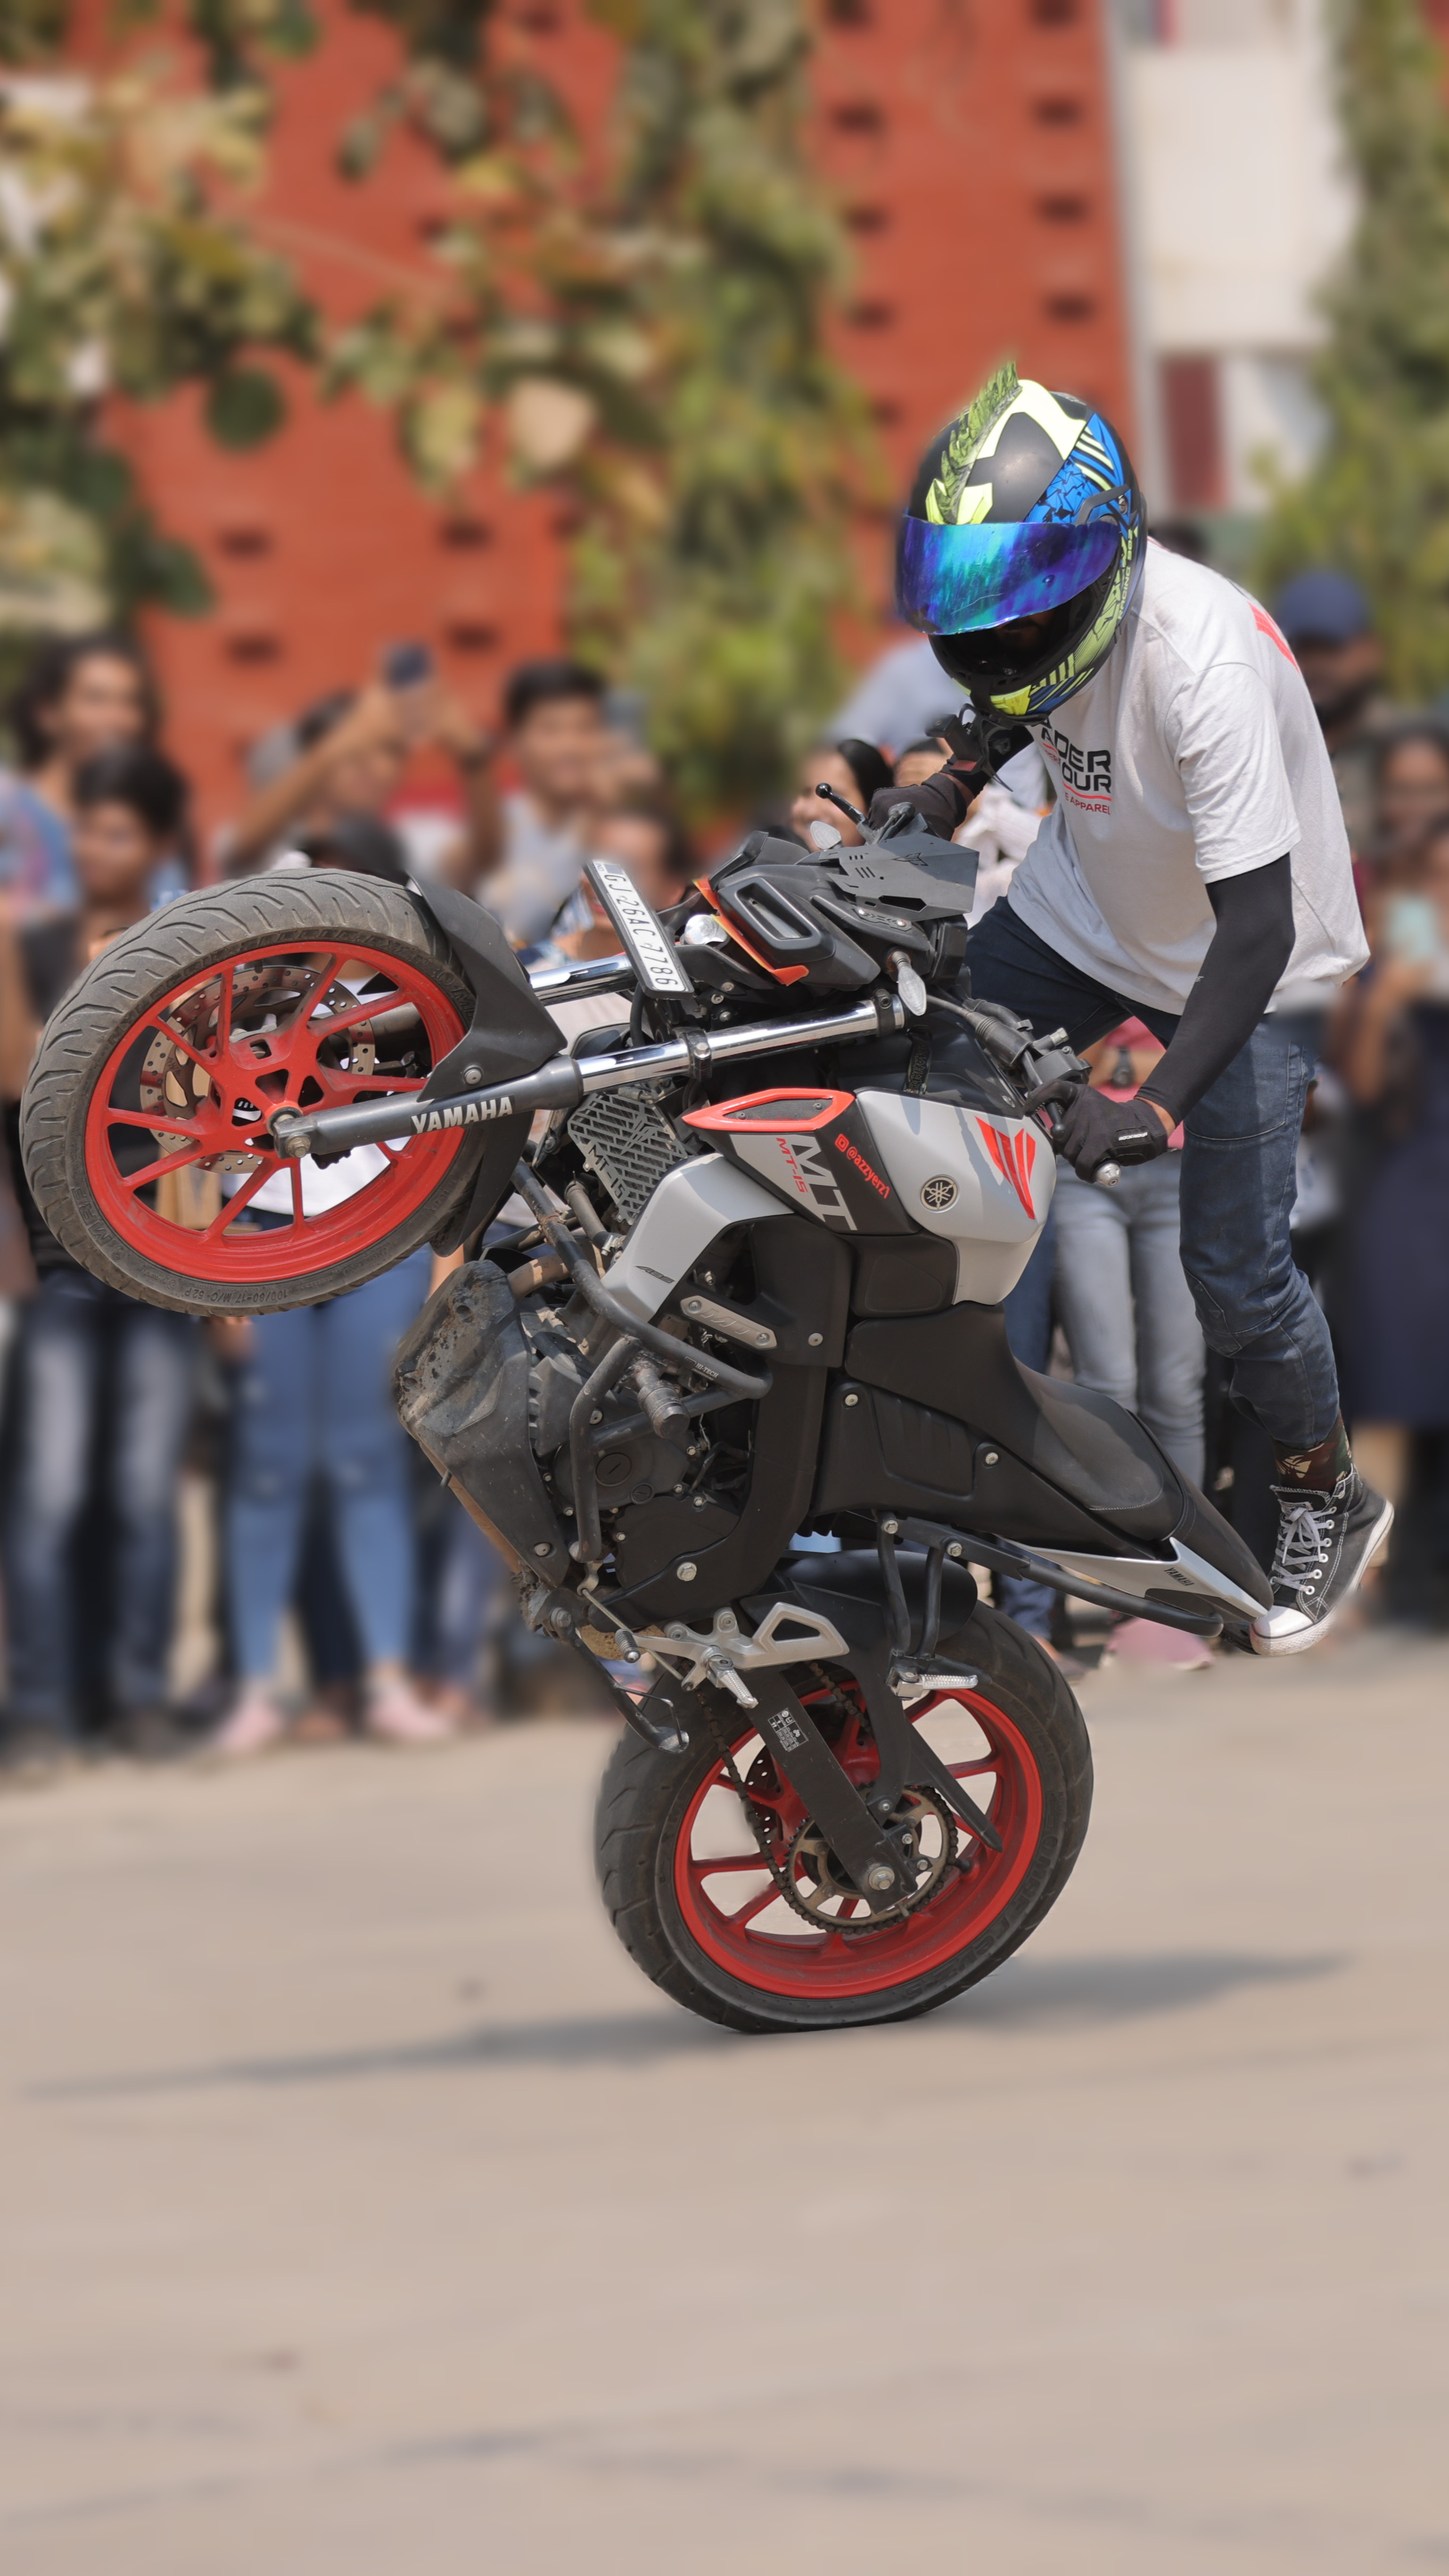
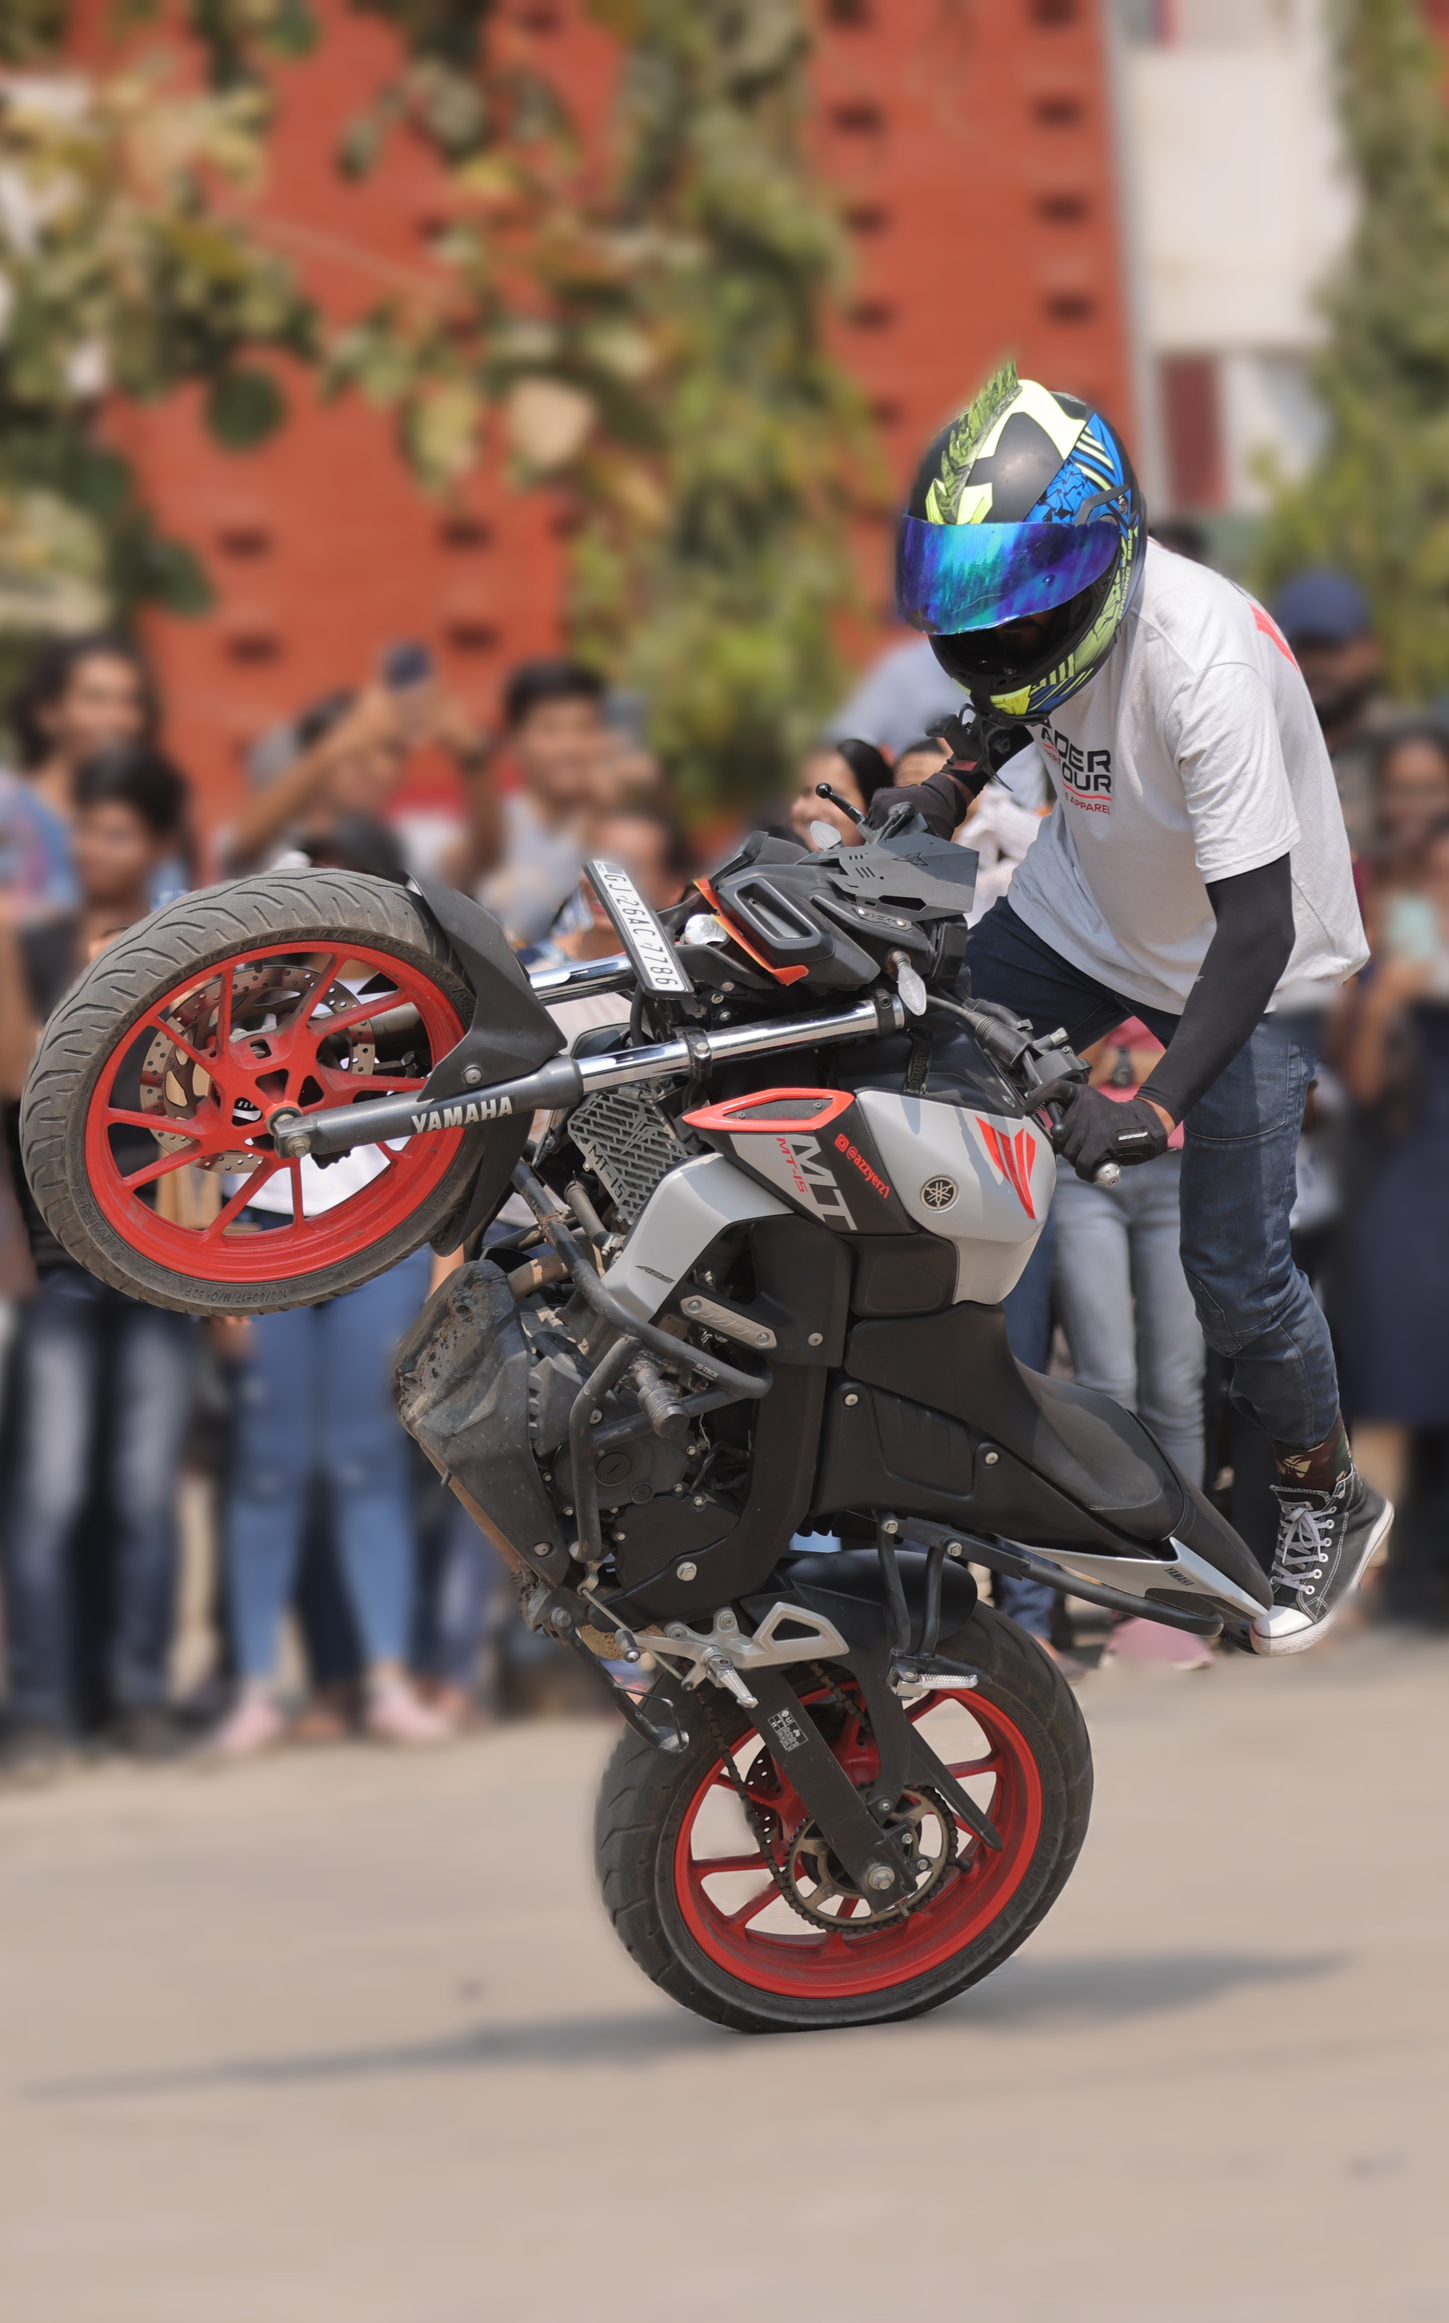
reels changed

diff --git a/index.html b/index.html
@@ -686,7 +686,7 @@
             <div class="col d-flex justify-content-center f-video" data-aos="zoom-out" data-aos-duration="1500">
               <a target="_blank" href="https://www.instagram.com/reel/Ct0h_36At9K/?igshid=NTc4MTIwNjQ2YQ==">
                 <img
-                  src="./darshan-reel.png"
+                  src="./DSC00050.jpg"
                   class="rounded image" alt="" width="300px">
 
                 <div class="ig-overlay">
